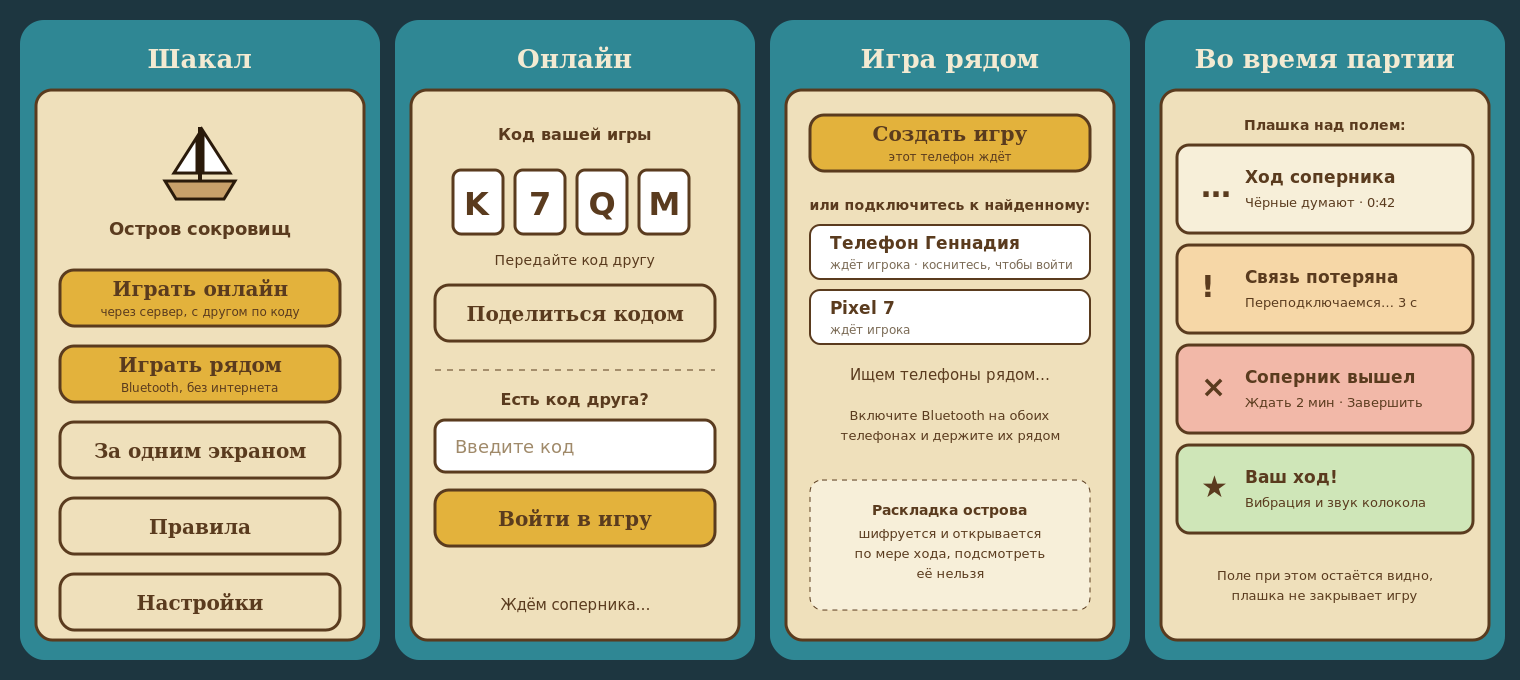
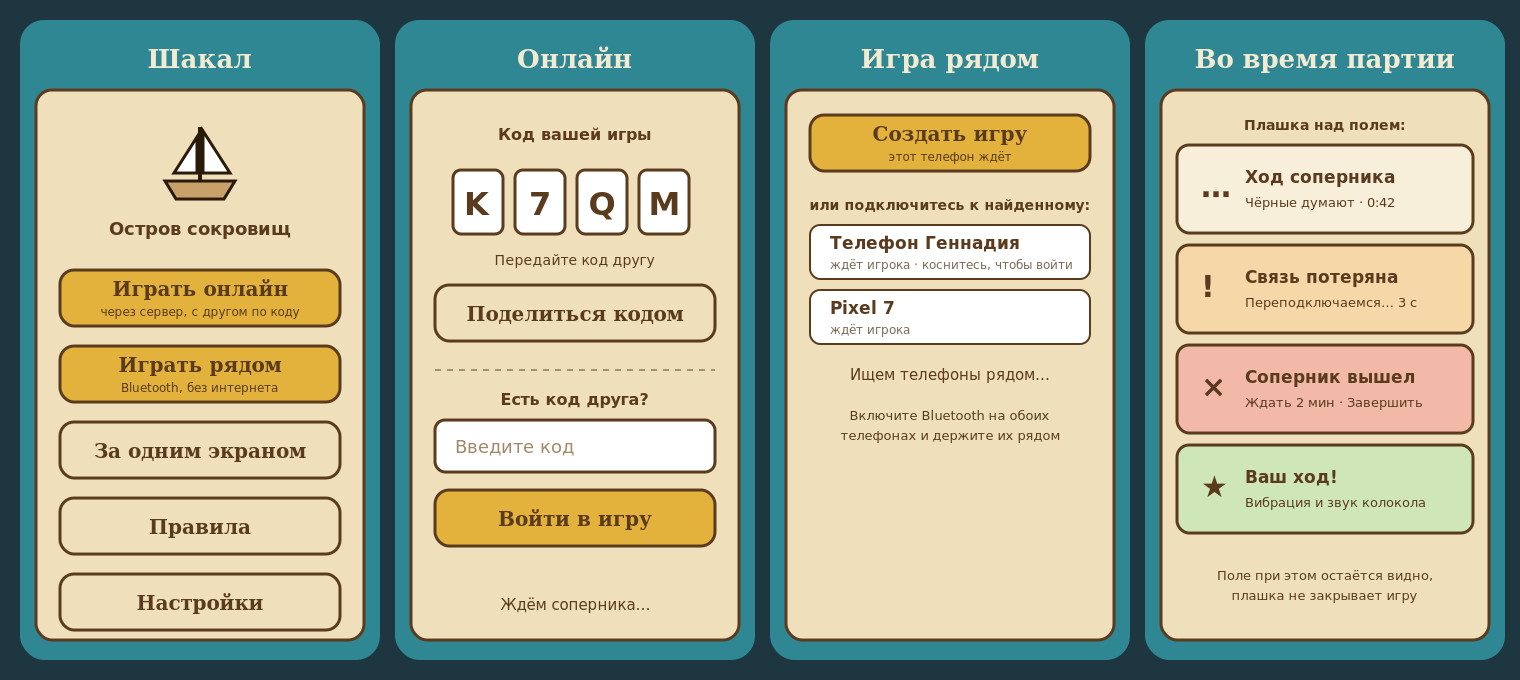
Макеты: убрана плашка про шифрование

Changed region(s): [[0.5257, 0.6794, 0.7421, 0.8956]]

diff --git a/design/mockups.py b/design/mockups.py
@@ -13,7 +13,7 @@ s1=screen('Шакал',ship+txt(215,'Остров сокровищ',18,'bold')+b
 code=''.join(f'<rect x="{58+i*62}" y="150" width="50" height="64" rx="8" fill="#fff" stroke="{E}" stroke-width="3"/><text x="{83+i*62}" y="195" font-family="DejaVu Sans" font-size="32" font-weight="bold" text-anchor="middle" fill="{E}">{c}</text>' for i,c in enumerate('K7QM'))
 s2=screen('Онлайн',txt(120,'Код вашей игры',16,'bold')+code+txt(245,'Передайте код другу',14)+btn(265,'Поделиться кодом',False)+f'<path d="M40 350 H320" stroke="{E}" stroke-dasharray="6 6"/>'+txt(385,'Есть код друга?',16,'bold')+f'<rect x="40" y="400" width="280" height="52" rx="10" fill="#fff" stroke="{E}" stroke-width="3"/><text x="60" y="433" font-family="DejaVu Sans" font-size="18" fill="#a08a6a">Введите код</text>'+btn(470,'Войти в игру')+txt(590,'Ждём соперника…',15))
 dev=lambda y,n,s:f'<rect x="40" y="{y}" width="280" height="54" rx="10" fill="#fff" stroke="{E}" stroke-width="2"/><text x="60" y="{y+24}" font-family="DejaVu Sans" font-size="17" font-weight="bold" fill="{E}">{n}</text><text x="60" y="{y+44}" font-family="DejaVu Sans" font-size="12" fill="#7a6a55">{s}</text>'
-s3=screen('Игра рядом',btn(95,'Создать игру',True,'этот телефон ждёт')+txt(190,'или подключитесь к найденному:',14,'bold')+dev(205,'Телефон Геннадия','ждёт игрока · коснитесь, чтобы войти')+dev(270,'Pixel 7','ждёт игрока')+txt(360,'Ищем телефоны рядом…',15)+txt(400,'Включите Bluetooth на обоих',13)+txt(420,'телефонах и держите их рядом',13)+f'<rect x="40" y="460" width="280" height="130" rx="12" fill="#f7efd9" stroke="{E}" stroke-dasharray="5 5"/>'+txt(495,'Раскладка острова',14,'bold')+txt(518,'шифруется и открывается',13)+txt(538,'по мере хода, подсмотреть',13)+txt(558,'её нельзя',13))
+s3=screen('Игра рядом',btn(95,'Создать игру',True,'этот телефон ждёт')+txt(190,'или подключитесь к найденному:',14,'bold')+dev(205,'Телефон Геннадия','ждёт игрока · коснитесь, чтобы войти')+dev(270,'Pixel 7','ждёт игрока')+txt(360,'Ищем телефоны рядом…',15)+txt(400,'Включите Bluetooth на обоих',13)+txt(420,'телефонах и держите их рядом',13))
 def bar(y,ico,t,sub,col):
     return f'<rect x="32" y="{y}" width="296" height="88" rx="12" fill="{col}" stroke="{E}" stroke-width="3"/><text x="56" y="{y+52}" font-size="30" font-family="DejaVu Sans" font-weight="bold" fill="#5a3b1e">{ico}</text><text x="100" y="{y+38}" font-family="DejaVu Sans" font-size="17" font-weight="bold" fill="{E}">{t}</text><text x="100" y="{y+62}" font-family="DejaVu Sans" font-size="13" fill="{E}">{sub}</text>'
 s4=screen('Во время партии',txt(110,'Плашка над полем:',14,'bold')+bar(125,'…','Ход соперника','Чёрные думают · 0:42','#f7efd9')+bar(225,'!','Связь потеряна','Переподключаемся… 3 c','#f6d7a7')+bar(325,'×','Соперник вышел','Ждать 2 мин · Завершить','#f2b8a8')+bar(425,'★','Ваш ход!','Вибрация и звук колокола','#cfe6b8')+txt(560,'Поле при этом остаётся видно,',13)+txt(580,'плашка не закрывает игру',13))
